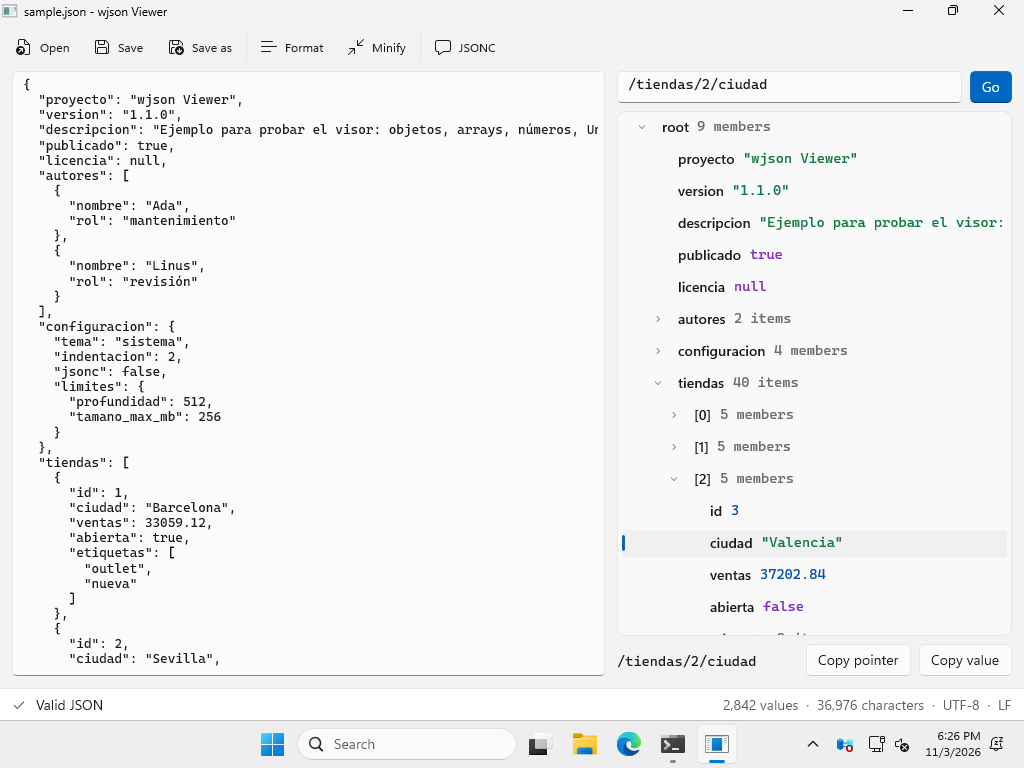
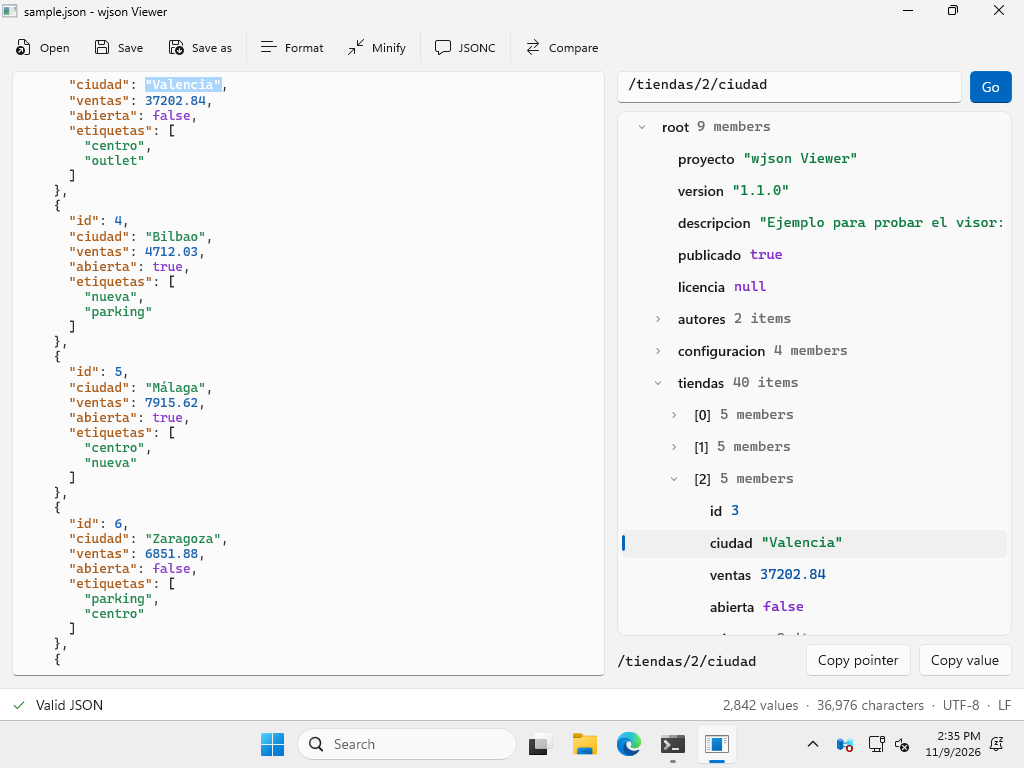
Docs: wjson diff, syntax colors, tree-text link and progress panel
Also show the size of a large file in the status bar while it validates.

Claude-Session: https://claude.ai/code/session_01THivk8aqkxXfW6RsJdGDN9

Changed region(s): [[0.0312, 0.0938, 0.5625, 0.875], [0.1562, 0.8438, 0.2188, 0.875], [0.9062, 0.9375, 0.9375, 0.9688]]

diff --git a/gui/Wjson.Viewer/MainWindow.xaml.cs b/gui/Wjson.Viewer/MainWindow.xaml.cs
@@ -269,6 +269,7 @@ namespace Wjson.Viewer
             _cleanText = _text;
             _dirty = false;
             UpdateTitle();
+            if (_largeFile != null) ShowResult(null); // size and encoding in the status bar while it validates
             await ValidateAsync();
             if (!string.IsNullOrEmpty(pointer)) NavigateTo(pointer!);
         }

diff --git a/docs/ARCHITECTURE.md b/docs/ARCHITECTURE.md
@@ -91,19 +91,24 @@ La GUI es una aplicación **WinUI 3** (Windows App SDK 1.8) escrita en C#, que u
 | `gui/Wjson.Viewer.Core` | Lógica sin interfaz, que se prueba en cualquier sistema: árbol perezoso (los hijos se crean al expandir, y los contenedores de más de 1000 elementos se dividen en rangos), navegación por JSON Pointer, conversión de línea y columna a posición en el texto, carga y guardado que respetan codificación y finales de línea, modo streaming para archivos grandes, textos en español e inglés (incluidos los errores del parser, traducidos por su código) y un serializador para copiar nodos. |
 | `gui/Wjson.Viewer.Core.Tests` | Tests de xUnit de la lógica. |
 | `gui/Wjson.Viewer` | La ventana (XAML y code-behind): editor, árbol, barra de estado, abrir, guardar y arrastrar archivos. |
-| `gui/tests/smoke.ps1` | Prueba de humo del CI: abre la app con archivos de ejemplo, comprueba que la ventana aparece y captura pantallas. |
+| `gui/tests/smoke.ps1` | Prueba de humo del CI: ejecuta el autotest de la app, la abre con archivos de ejemplo (y con uno de 110 MB), comprueba que la ventana aparece y captura pantallas. |
 
 Algunos detalles:
 
 - **Aplicación sin empaquetar y autocontenida**: no necesita instalar .NET ni el runtime de Windows App SDK; basta con descomprimir el zip. `EnableMsixTooling` debe seguir activado, porque genera el `resources.pri` del que dependen los controles de WinUI.
 - **Validación en vivo**: el texto se valida en segundo plano 350 ms después de la última pulsación. Cuando hay un error, el árbol conserva la última versión válida, atenuada.
 - **Archivos grandes** (más de 8 MB): se abren en solo lectura y se validan en streaming, sin cargar el texto en el editor. A partir de 256 MB tampoco se construye el árbol.
-- **Finales de línea**: el `TextBox` de WinUI guarda los saltos de línea como `\r`. Al guardar se restauran los del archivo original (LF o CRLF).
+- **Finales de línea**: el editor (un `RichEditBox`) guarda los saltos de línea como `\r`. Al guardar se restauran los del archivo original (LF o CRLF).
+- **Resaltado de sintaxis** (`JsonSyntax`): un tokenizador tolerante (colorea también JSON incompleto) da los tramos de color. Un documento entero se carga como RTF ya coloreado, en una sola llamada; tras cada edición solo se repintan las líneas cuyo color cambia (`RepaintRange` compara los tramos de antes y de después). Por encima de 2 millones de caracteres no se colorea.
+- **Deshacer/rehacer** (`EditHistory`): lo lleva la ventana, porque colorear cambia el formato y el historial propio del control lo registraría como pasos. Agrupa lo escrito por palabras; Formatear y Minificar son un solo paso.
+- **Árbol y texto enlazados** (`JsonLocator`): convierte una posición del texto en el JSON Pointer del valor que hay debajo, y un puntero en el rango de texto de su valor, recorriendo el texto sin construir ningún árbol.
+- **Progreso**: abrir o comparar archivos grandes muestra la fase y el tiempo transcurrido, y se puede cancelar.
+- **Autotest**: `WjsonViewer.exe sample.json --self-test log.txt` ejecuta dentro de la app comprobaciones del editor (colores, escritura, deshacer, enlace con el árbol); el CI lo ejecuta en la prueba de humo.
 - **Idioma**: el de Windows, o el que se indique con `--lang es` / `--lang en`.
 
 - **Comparación** (`JsonDiff` en `Wjson.Viewer.Core`): objetos por clave, arrays alineados con la subsecuencia común más larga (sobre identificadores de una forma canónica de cada elemento, para comparar enteros y no subárboles) y números por valor. A partir de 4 millones de celdas de alineación, los arrays se comparan por posición; los resultados se limitan a 10 000.
 
-Pendiente: resaltado de sintaxis en el editor, enlace entre la selección del árbol y el texto, y progreso y cancelación al abrir archivos muy grandes.
+Pendiente: porcentaje de progreso al abrir archivos grandes (la API en C no informa del avance).
 
 ## Capas para otros lenguajes
 

diff --git a/CLAUDE.md b/CLAUDE.md
@@ -16,7 +16,7 @@ Contexto para trabajar en este repositorio. El usuario escribe en español: resp
 | `src/document.cpp` | `Document` compacto: `DocumentBuilder` (otro *sink* de `Reader`) y `ValueRef`. |
 | `src/c_api.cpp` | API C sobre la C++. Ninguna excepción cruza la frontera. |
 | `src/third_party/fast_float/` | fast_float v8.3.2 *vendorizado* (conversión de doubles). |
-| `cli/` | `wjson.exe`: `validate`, `format`, `minify`, `query`. |
+| `cli/` | `wjson.exe`: `validate`, `format`, `minify`, `query`, `diff` (`cli/diff.cpp`, probado en `tests/test_diff.cpp`). |
 | `bindings/dotnet/` | Binding .NET (P/Invoke). Ensamblado `Imontene.Wjson.dll`. |
 | `bindings/powershell/` | Módulo `Wjson` (5.1 y 7) y tests Pester. |
 | `gui/` | **wjson Viewer** (WinUI 3): `Wjson.Viewer.Core` (lógica, testeable en cualquier SO), `Wjson.Viewer` (ventana). |
@@ -47,6 +47,7 @@ Linux: presets `linux-gcc` y `linux-clang-sanitize` (ASan + UBSan).
   Por defecto usa el NuGet publicado; con `-p:WjsonLocalNative=<wjson.dll>` usa el binding y la DLL del repositorio.
   Tests de la lógica: `dotnet test gui/Wjson.Viewer.Core.Tests` (funcionan también en Linux).
   Prueba de humo con capturas: `gui/tests/smoke.ps1 -Exe <WjsonViewer.exe> -Samples gui/samples`.
+  Incluye `WjsonViewer.exe gui/samples/sample.json --self-test log.txt` (`MainWindow.SelfTest.cs`): comprobaciones del editor dentro de la app.
 
 ## Convenciones
 
@@ -79,7 +80,7 @@ Linux: presets `linux-gcc` y `linux-clang-sanitize` (ASan + UBSan).
 - **GUI sin empaquetar**: necesita `EnableMsixTooling=true` en el `.csproj` para generar `resources.pri`; sin él los controles WinUI (p. ej. `TreeView`) fallan al cargar con `XamlParseException` genérica.
 - **Fuentes en XAML**: se ponen directamente (`FontFamily="Cascadia Mono, Consolas"`); un `StaticResource` propio de `FontFamily` en `App.xaml` hacía fallar la carga.
 - **Diagnóstico de la GUI**: las excepciones no controladas se escriben en `%LOCALAPPDATA%\wjson\viewer.log` (o `WJSON_VIEWER_LOG`). Si falla la carga de `MainWindow.xaml`, `App.ProbeXaml` registra qué elemento falla.
-- **`TextBox` de WinUI** guarda los saltos de línea como `\r`; `DocumentFile.Save` restaura LF/CRLF y la codificación original.
+- **Editor del visor** (`RichEditBox`): guarda los saltos de línea como `\r` (`DocumentFile.Save` restaura LF/CRLF y la codificación); en solo lectura ignora `SetText`; tiene `UndoLimit = 0` porque colorear ensuciaría su historial (el historial es `EditHistory`); los colores se cargan como RTF y se repintan por líneas (`JsonSyntax`).
 - **Ensamblado .NET**: se llama `Imontene.Wjson.dll`, no `Wjson.dll`, porque en Windows chocaría con el nativo `wjson.dll` (mayúsculas indistintas).
 - **Runtime de MSVC**: la biblioteca usa `/MD` (lo que esperan los consumidores); solo `wjson.exe` usa `/MT`, compilando dentro las fuentes de la biblioteca. La DLL para NuGet se compila con `CMAKE_MSVC_RUNTIME_LIBRARY=MultiThreaded`.
 - **PDB**: la biblioteca usa `COMPILE_PDB_NAME wjson_lib` para no pisar `wjson.pdb` del CLI en Debug.
@@ -97,4 +98,4 @@ Linux: presets `linux-gcc` y `linux-clang-sanitize` (ASan + UBSan).
 
 ## Pendiente
 
-Ver `docs/FEATURES.md`. Lo más inmediato: enviar winget, bajar el pico de memoria de `Document`, SIMD explícito, mejoras del visor (resaltado, enlazar árbol y texto, progreso al abrir archivos enormes), `wjson diff` en el CLI y firma de código de los ejecutables.
+Ver `docs/FEATURES.md`. Lo más inmediato: enviar winget, firma de código de los ejecutables, porcentaje de progreso al abrir archivos enormes (necesita un callback de progreso en la API C), `--in-place` en `format`/`minify` y salida de `diff` como JSON Patch.

diff --git a/README.md b/README.md
@@ -25,16 +25,17 @@ Consulta la hoja de ruta en [docs/FEATURES.md](docs/FEATURES.md), el diseño en 
 
 ## wjson Viewer
 
-![wjson Viewer mostrando un documento con el árbol expandido hasta /tiendas/2/ciudad](docs/images/viewer.png)
+![wjson Viewer: el editor con resaltado de sintaxis y el valor de /tiendas/2/ciudad seleccionado a la vez en el texto y en el árbol](docs/images/viewer.png)
 
 Aplicación de escritorio para Windows 10 y 11 (WinUI 3):
 
-- **Editor** con validación mientras escribes. Los errores indican línea y columna, y el enlace **Ir al error** lleva a la posición exacta.
+- **Editor** con resaltado de sintaxis y validación mientras escribes. Los errores indican línea y columna, y el enlace **Ir al error** lleva a la posición exacta.
 - **Árbol** del documento con valores coloreados por tipo. Los arrays grandes se dividen en rangos de 1000 elementos.
+- **Árbol y texto enlazados**: al seleccionar un nodo se selecciona su valor en el texto, y al mover el cursor por el texto se selecciona su nodo.
 - **Búsqueda con JSON Pointer**: escribe `/tiendas/2/ciudad` y se expande el árbol hasta ese valor. Puedes copiar el puntero o el valor de cualquier nodo.
 - **Formatear**, **minificar** y modo **JSONC**, que se activa solo con los archivos `.jsonc`.
 - Conserva la codificación (UTF-8, UTF-8 con BOM, UTF-16) y los finales de línea al guardar.
-- Los archivos de más de 8 MB se abren en solo lectura y se validan en streaming.
+- Los archivos de más de 8 MB se abren en solo lectura y se validan en streaming, con un panel de progreso que permite cancelar.
 - **Comparar** con otro archivo: lista lo añadido, eliminado y cambiado, y al seleccionar una diferencia la muestra en el árbol.
 - Abrir, guardar y arrastrar archivos. Interfaz en español o inglés, según Windows.
 
@@ -53,11 +54,20 @@ wjson format --indent 4 data.json          # formatear
 wjson minify data.json > data.min.json     # compactar
 wjson query /items/0/name data.json        # extraer un valor (JSON Pointer)
 wjson query --raw /version package.json    # string sin comillas
+wjson diff v1.json v2.json                 # diferencias (orden de claves y formato no importan)
 wjson validate --jsonc settings.json       # aceptar comentarios y comas finales
 type data.json | wjson format              # leer desde stdin
 ```
 
-Códigos de salida: `0` correcto, `1` JSON inválido, `2` error de uso o de E/S, `3` el puntero de `query` no existe.
+Códigos de salida: `0` correcto (en `diff`, documentos iguales), `1` JSON inválido, `2` error de uso o de E/S, `3` el puntero de `query` no existe, `4` los documentos de `diff` son distintos.
+
+`diff` escribe una línea por diferencia:
+
+```text
+~ /version: "1.1.0" -> "1.3.0"
+- /licencia: null
++ /tiendas/5: {"id":99,"ciudad":"Córdoba","ventas":1234.5,"abierta":true,...}
+```
 
 Ejemplo de error:
 

diff --git a/CHANGELOG.md b/CHANGELOG.md
@@ -5,10 +5,15 @@ Formato basado en [Keep a Changelog](https://keepachangelog.com/es-ES/1.1.0/). E
 ## [Sin publicar]
 
 ### Añadido
+- **`wjson diff a.json b.json`** en el CLI: muestra una línea por diferencia (`+ /puntero: valor`, `- /puntero: valor` o `~ /puntero: antes -> después`) con las mismas reglas que la comparación del visor. Código de salida `4` si los documentos difieren y `0` si son iguales; `--quiet` solo devuelve el código.
+- **Resaltado de sintaxis en wjson Viewer**: claves, strings, números, `true`/`false`/`null` y comentarios en colores distintos, en tema claro y oscuro. También colorea el JSON a medio escribir o con errores. Los documentos de más de 2 millones de caracteres se muestran sin colores.
+- **Árbol y texto enlazados**: al seleccionar un nodo se selecciona su valor en el editor, y al mover el cursor por el texto se selecciona en el árbol el valor que hay debajo.
+- **Progreso al abrir archivos grandes**: un panel muestra la fase (validando, leyendo los valores, construyendo el árbol) y el tiempo transcurrido, con un botón para cancelar. También al comparar con un archivo grande.
 - **Comparar archivos en wjson Viewer**: botón *Comparar* (y argumento `--compare otro.json`) que lista lo añadido, eliminado y cambiado entre el documento abierto y otro archivo, con su JSON Pointer; al seleccionar una diferencia se muestra en el árbol. Los objetos se comparan por clave, sin importar el orden; los arrays se alinean para que un elemento insertado en medio cuente como una sola diferencia; y los números se comparan por valor (`1` es igual a `1.0`).
 - **`wjson::Document`**: documento compacto de solo lectura (`parse_document`, `parse_document_file`, `parse_document_stream`), con acceso mediante `ValueRef` (`find`, `at_pointer`, índices, `to_value()`) y `serialize(ValueRef)`. Ocupa unas 2,4 veces menos memoria que el árbol `Value` y se construye 1,4 veces más rápido. La API existente no cambia.
 
 ### Cambiado
+- El editor del visor tiene su propio historial de deshacer/rehacer (Ctrl+Z, Ctrl+Y, Ctrl+Mayús+Z): agrupa lo escrito por palabras, y Formatear o Minificar se deshacen en un solo paso. Pegar inserta siempre texto sin formato.
 - El CLI usa `Document` en `format`, `minify` y `query`: con un archivo de 137 MB, la memoria máxima baja de 1,2 GB a 760 MB.
 - Búsqueda con SSE2 (x86/x64) del final de los strings y de los espacios, de 16 en 16 bytes: entre un 20 % y un 30 % más rápido en documentos con mucho texto o indentación. En otras arquitecturas se mantiene la versión portable de 8 en 8 bytes.
 

diff --git a/docs/FEATURES.md b/docs/FEATURES.md
@@ -72,7 +72,7 @@ Es lo que diferenciaría el proyecto de un parser genérico.
 | ◐ `wjson format` / `wjson minify` | 🟢 | Formatear o compactar, en sitio o hacia stdout. *Hecho: hacia stdout. Pendiente: en sitio (`--in-place`).* |
 | ✅ Lectura desde stdin y pipes | 🟢 | `type data.json \| wjson query /items/0`. |
 | ✅ `wjson query <pointer>` | 🟡 | Extraer valores (alternativa ligera a `jq`). |
-| ◐ `wjson diff a.json b.json` | 🔵 | Diferencias semánticas, ignorando formato y orden de claves. *Hecho: en wjson Viewer (botón Comparar). Pendiente: el comando del CLI.* |
+| ✅ `wjson diff a.json b.json` | 🔵 | Diferencias semánticas, ignorando formato y orden de claves. *En el CLI y en wjson Viewer (botón Comparar).* |
 | `wjson convert` | 🔵 | JSON ↔ YAML / CSV / XML. |
 | Salida con colores | 🟡 | Usando secuencias VT de la consola de Windows (Windows Terminal). |
 | ✅ Ejecutable único sin dependencias | 🟢 | Fácil de distribuir con **winget** y **Scoop**. *Manifiestos de winget generados en cada release; falta enviarlos.* |
